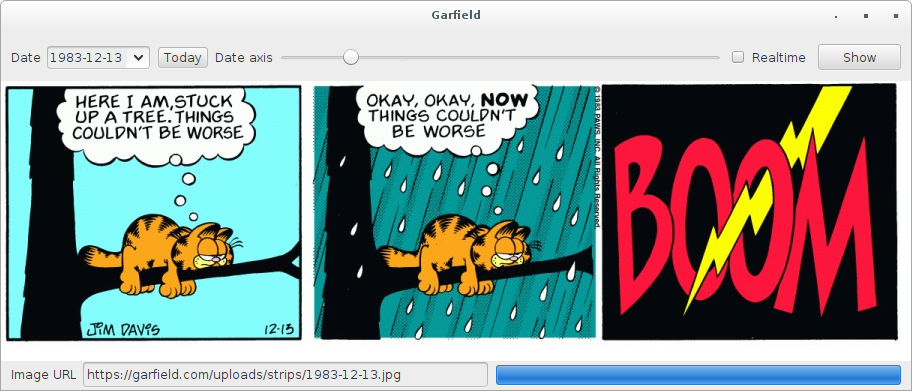
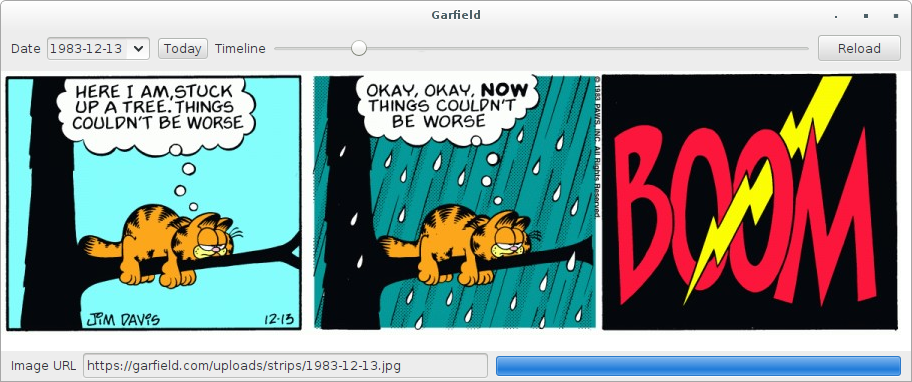
Litle improvements

diff --git a/garfield.cpp b/garfield.cpp
@@ -1,4 +1,5 @@
 #include <QWebView>
+#include <QThread>
 #include "garfield.hpp"
 #include "ui_garfield.h"
 
@@ -18,7 +19,6 @@ Garfield::Garfield(QWidget *parent) :
     ui->dateEdit->calendarWidget()->setMaximumDate(MAXDATE);
 
     on_todayButton_clicked();
-    on_showButton_clicked();
 }
 
 Garfield::~Garfield()
@@ -40,16 +40,17 @@ void Garfield::on_showButton_clicked()
 void Garfield::on_todayButton_clicked()
 {
     ui->dateEdit->setDate(MAXDATE);
+    on_showButton_clicked();
+}
+
+void Garfield::on_horizontalSlider_sliderReleased()
+{
+    on_showButton_clicked();
 }
 
 void Garfield::on_horizontalSlider_valueChanged(int value)
 {
     ui->dateEdit->setDate(QDate::fromJulianDay(value));
-}
-
-void Garfield::on_horizontalSlider_sliderReleased()
-{
-    //if (ui->checkBox->isChecked()) on_showButton_clicked();
 }
 
 void Garfield::on_dateEdit_dateChanged(const QDate &date)
@@ -63,5 +64,9 @@ void Garfield::on_dateEdit_dateChanged(const QDate &date)
     } else {
         ui->horizontalSlider->setValue(date.toJulianDay());
     }
-    if (ui->checkBox->isChecked()) on_showButton_clicked();
+}
+
+void Garfield::on_dateEdit_editingFinished()
+{
+    on_showButton_clicked();
 }

diff --git a/garfield.hpp b/garfield.hpp
@@ -27,6 +27,8 @@ private slots:
 
     void on_dateEdit_dateChanged(const QDate &date);
 
+    void on_dateEdit_editingFinished();
+
 private:
     Ui::Garfield *ui;
 };

diff --git a/README.md b/README.md
@@ -1,6 +1,6 @@
 # Garfield
 
-Garfield je tlustá lenivá kočka.
+*Garfield je tlustý a lenivý zrzavý kocour, který je závislý na kávě, miluje lasagne a nesnáší pondělky*
 
 Garfield je jednoduchý prohlížeč stejnojmenného komixu napsaný za pomoci Qt frameworku. Jen tak pro zábavu. Během jedné noci, kdy jsem nemohl spát.
 
